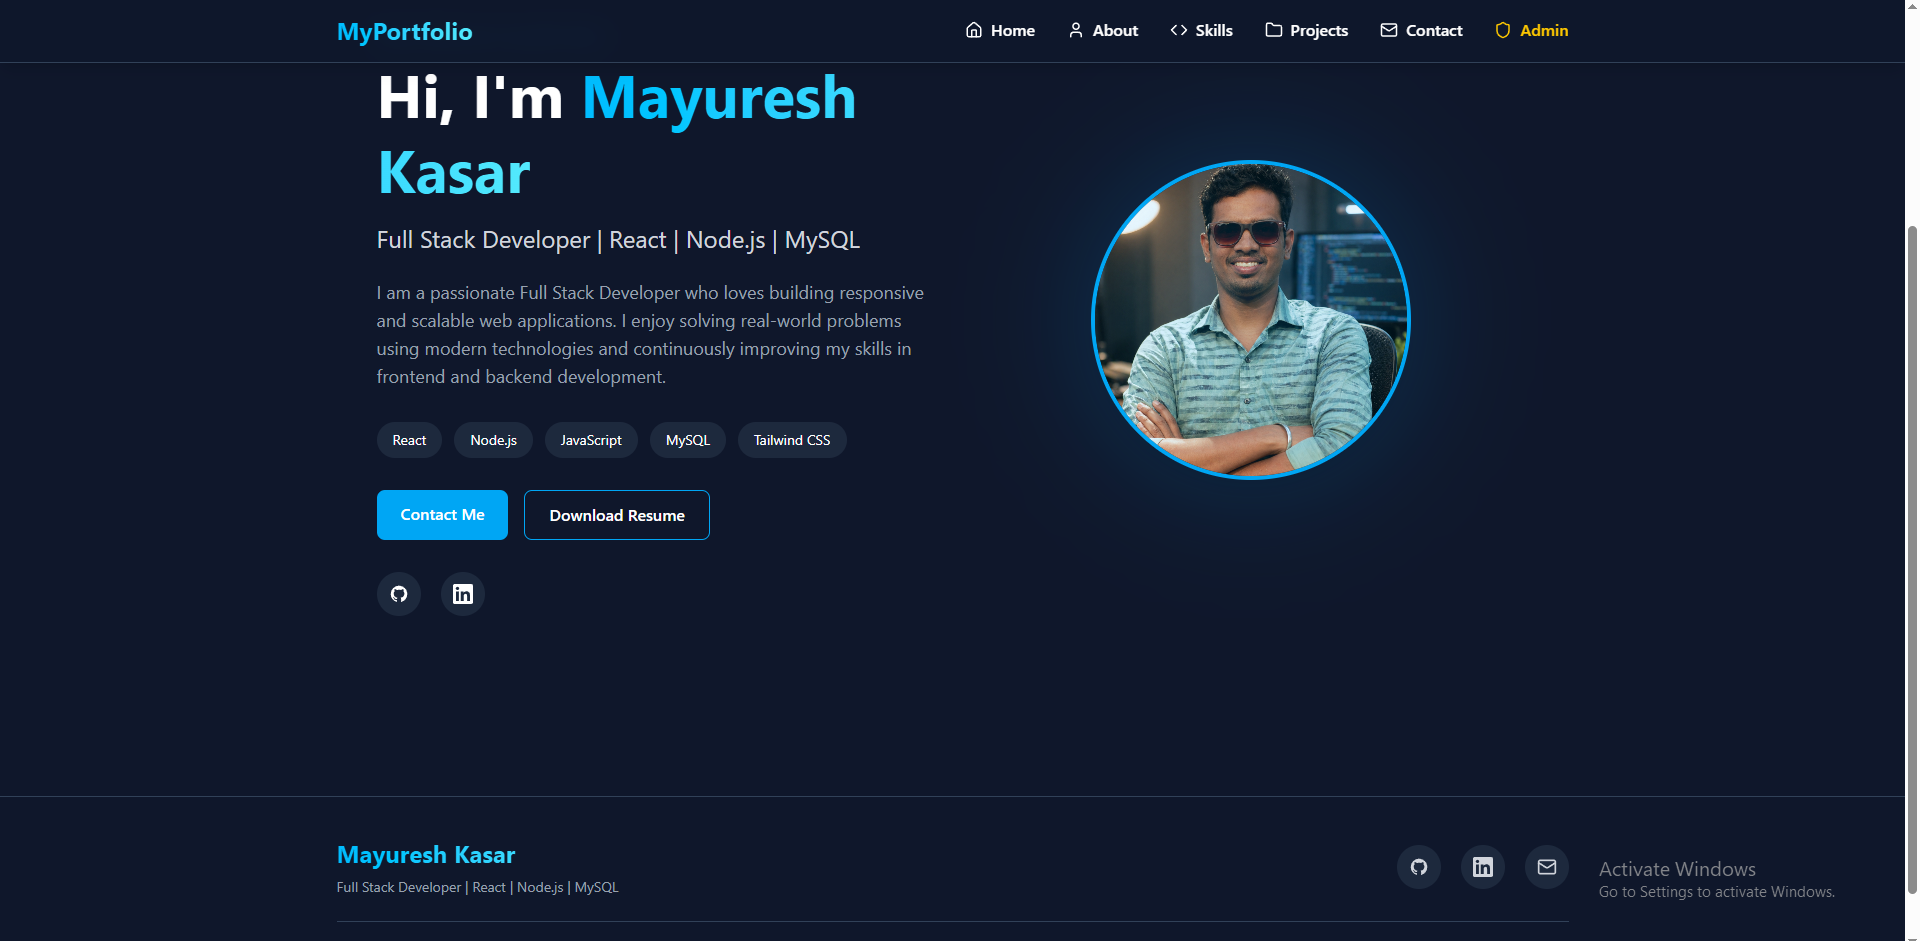
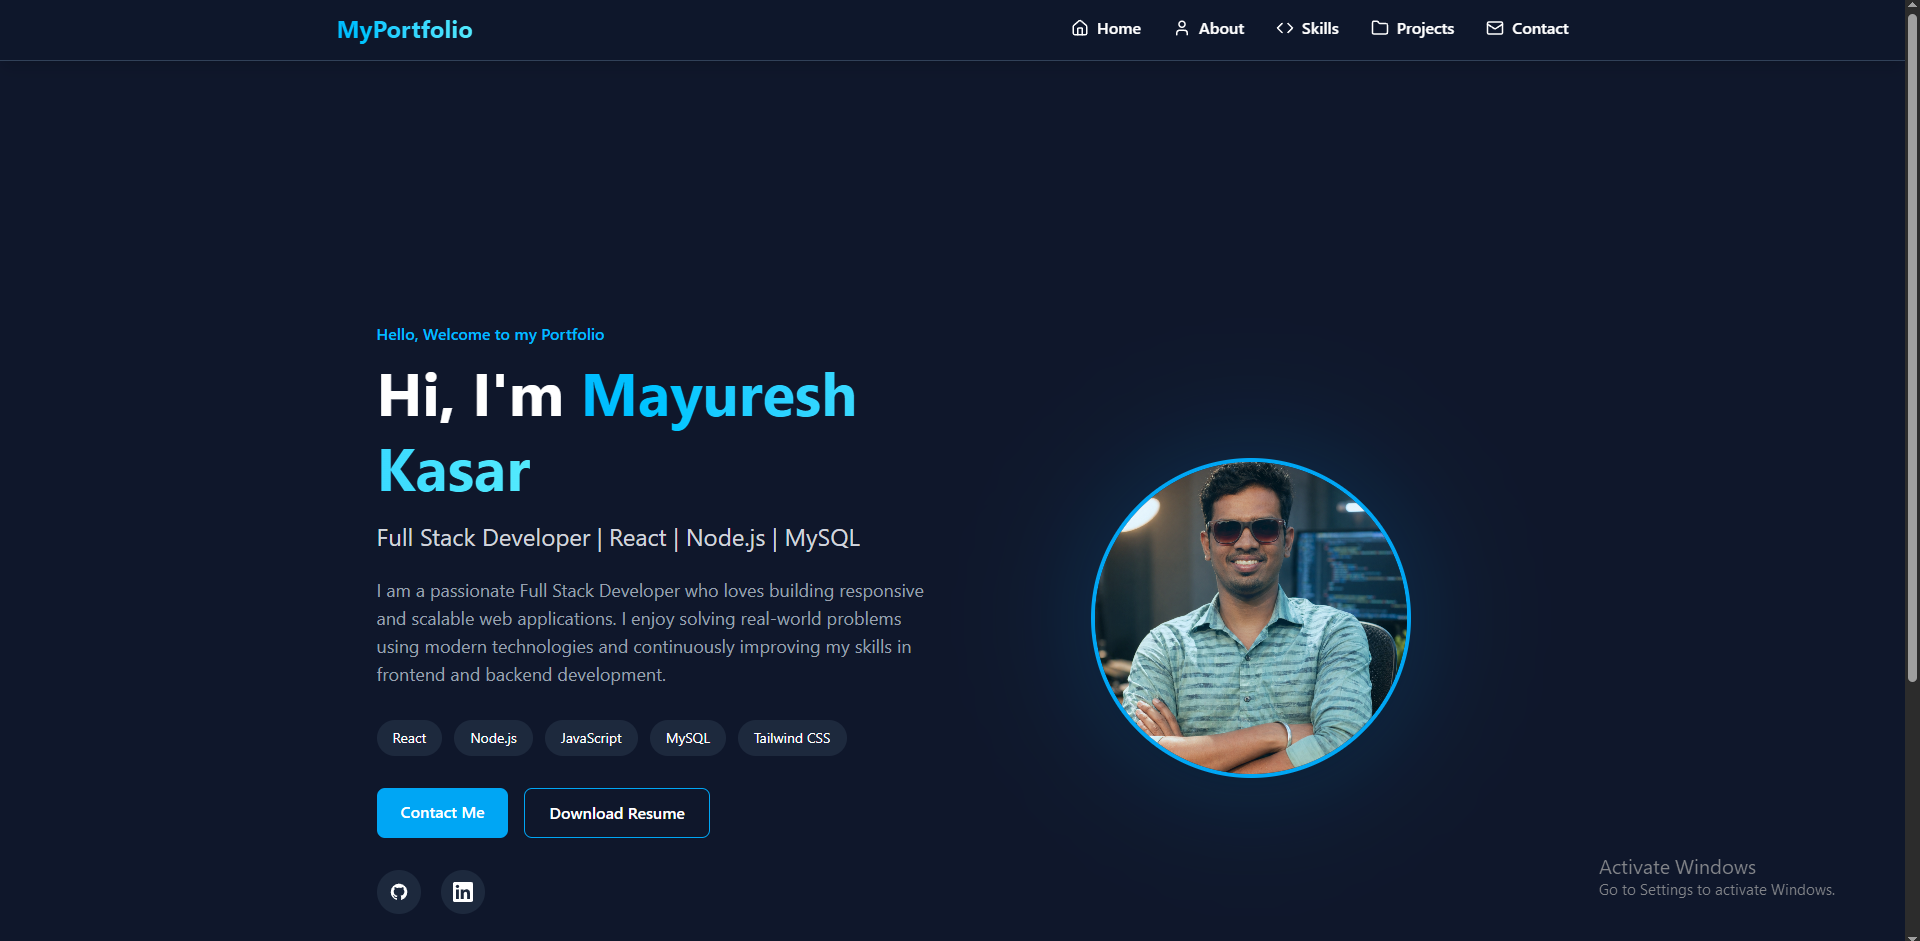
Initial portfolio setup

diff --git a/README.md b/README.md
@@ -60,15 +60,31 @@ It is suitable for:
 - Full Stack Developer portfolio showcase
 - Technical interview demonstrations
 
-## 📸 Screenshots
+## 📸 Application Screenshots
+
+---
+
+## 👤 User Interface — Portfolio Pages
 
 ### 🏠 Home Page
+
+This is the main landing page where users can view the developer introduction, skills highlights, and navigation options.
 
 ![Home Page](public/Home.png)
 
 ---
 
+### 🏠 Admin Home Page
+
+This page appears after admin login and allows the administrator to manage projects, skills, and portfolio content securely.
+
+![Admin Home Page](public/AdminHome.png)
+
+---
+
 ### 👤 About Page
+
+This page provides background information about the developer, experience, and technical expertise.
 
 ![About Page](public/About.png)
 
@@ -76,11 +92,18 @@ It is suitable for:
 
 ### 📞 Contact Page
 
+Users can use this page to send messages or connect with the developer.
+
 ![Contact Page](public/Contact.png)
 
 ---
 
+## 🔐 Admin Interface — Secure Management Panel
+
 ### 🔐 Admin Login Page
+
+This is the secure authentication page for administrators.  
+Only authorized users can access the admin dashboard.
 
 ![Admin Login](public/Login.png)
 
@@ -88,8 +111,20 @@ It is suitable for:
 
 ### 📊 Admin Dashboard
 
+This dashboard allows administrators to manage portfolio content dynamically.
+
+Admin can:
+
+- Add new projects
+- Delete projects
+- Upload project images
+- Add skills
+- Delete skills
+- Manage portfolio data securely
+
 ![Admin Dashboard](public/Admin.png)
 
+---
 ---
 
 ## 🛠 Technologies Used
